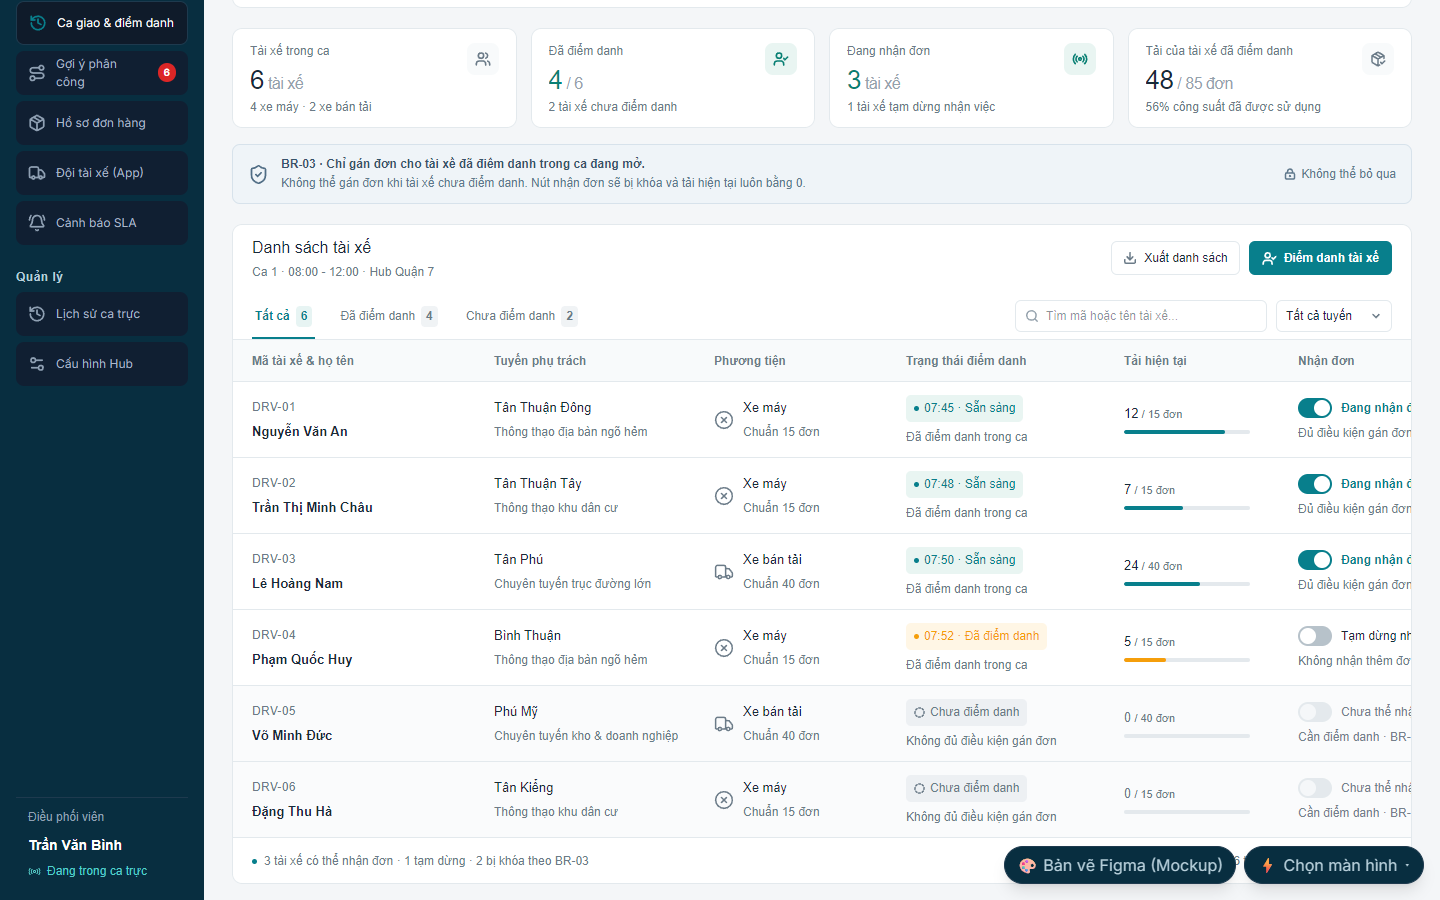
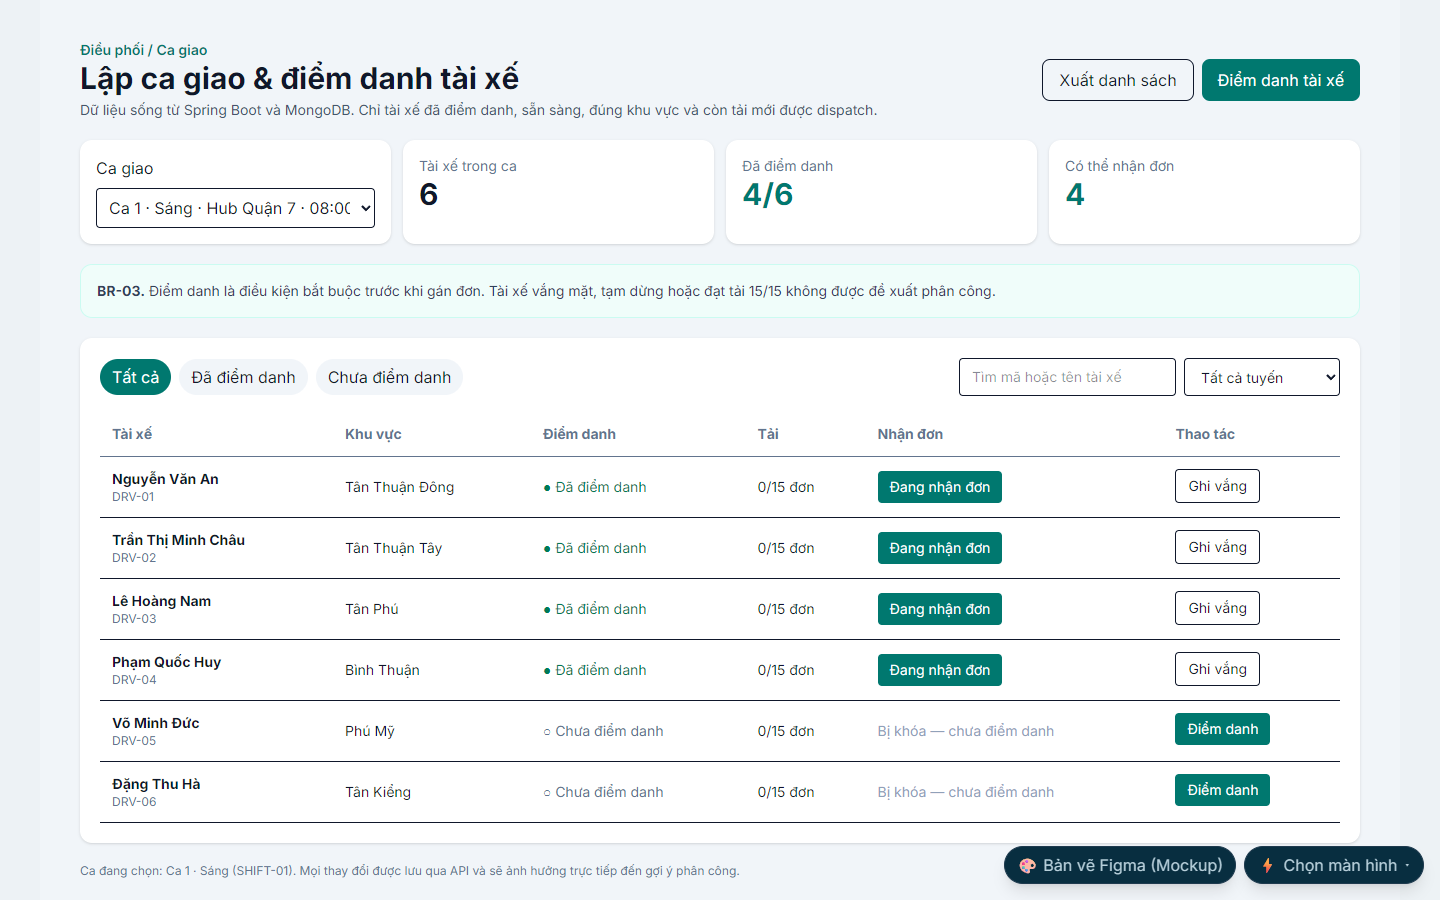
feat(server): add /api/shifts attendance and driver availability endpoints to local WebServer

diff --git a/src/vn/edu/tdtu/minervanexus/server/WebServer.java b/src/vn/edu/tdtu/minervanexus/server/WebServer.java
@@ -31,6 +31,7 @@ public class WebServer {
     private final IDriverShiftService driverShiftService;
     private final IDispatchEngine dispatchEngine;
     private final IAnalyticsService analyticsService;
+    private final Map<String, Map<String, Boolean>> shiftAttendance = new HashMap<>();
     private HttpServer server;
 
     public WebServer(int port,
@@ -43,6 +44,21 @@ public class WebServer {
         this.driverShiftService = driverShiftService;
         this.dispatchEngine = dispatchEngine;
         this.analyticsService = analyticsService;
+        initShiftAttendance();
+    }
+
+    private void initShiftAttendance() {
+        Map<String, Boolean> ca1 = new HashMap<>();
+        Map<String, Boolean> ca2 = new HashMap<>();
+        List<Driver> drivers = driverShiftService.getAllDrivers();
+        for (int i = 0; i < drivers.size(); i++) {
+            String id = drivers.get(i).getDriverId();
+            // First 4 drivers checked in for Ca 1; remaining unchecked so attendance picker has candidates
+            ca1.put(id, i < 4);
+            ca2.put(id, i < 2);
+        }
+        shiftAttendance.put("SHIFT-01", ca1);
+        shiftAttendance.put("SHIFT-02", ca2);
     }
 
     public void start() throws IOException {
@@ -54,6 +70,7 @@ public class WebServer {
         // API Endpoints
         server.createContext("/api/orders", new OrdersHandler());
         server.createContext("/api/drivers", new DriversHandler());
+        server.createContext("/api/shifts", new ShiftsHandler());
         server.createContext("/api/dispatch/suggestions", new DispatchSuggestionsHandler());
         server.createContext("/api/dispatch/approve", new DispatchApproveHandler());
         server.createContext("/api/dispatch/reject", new DispatchRejectHandler());
@@ -242,6 +259,23 @@ public class WebServer {
     private class DriversHandler implements HttpHandler {
         @Override
         public void handle(HttpExchange exchange) throws IOException {
+            String method = exchange.getRequestMethod();
+            String path = exchange.getRequestURI().getPath();
+
+            if ("PUT".equalsIgnoreCase(method) && path.startsWith("/api/drivers/")) {
+                String driverId = path.substring("/api/drivers/".length()).trim();
+                String body = new String(exchange.getRequestBody().readAllBytes(), StandardCharsets.UTF_8);
+                boolean active = body.contains("\"active\":true") || body.contains("\"active\": true");
+                Optional<Driver> opt = driverShiftService.getDriverById(driverId);
+                if (opt.isEmpty()) {
+                    sendJson(exchange, 404, "{\"error\":\"Không tìm thấy tài xế " + escape(driverId) + "\"}");
+                    return;
+                }
+                opt.get().setActive(active);
+                sendJson(exchange, 200, "{\"success\":true,\"driverId\":\"" + escape(driverId) + "\",\"active\":" + active + "}");
+                return;
+            }
+
             List<Driver> drivers = driverShiftService.getAllDrivers();
             StringBuilder sb = new StringBuilder("[");
             for (int i = 0; i < drivers.size(); i++) {
@@ -261,6 +295,108 @@ public class WebServer {
             }
             sb.append("]");
             sendJson(exchange, 200, sb.toString());
+        }
+    }
+
+    private class ShiftsHandler implements HttpHandler {
+        @Override
+        public void handle(HttpExchange exchange) throws IOException {
+            String method = exchange.getRequestMethod();
+            String path = exchange.getRequestURI().getPath();
+            String query = exchange.getRequestURI().getQuery();
+
+            // GET /api/shifts
+            if ("GET".equalsIgnoreCase(method) && ("/api/shifts".equals(path) || "/api/shifts/".equals(path))) {
+                String json = "["
+                        + "{\"id\":\"SHIFT-01\",\"name\":\"Ca 1 · Sáng\",\"area\":\"Hub Quận 7\",\"start\":\"2026-11-18T01:00:00Z\",\"end\":\"2026-11-18T05:00:00Z\"},"
+                        + "{\"id\":\"SHIFT-02\",\"name\":\"Ca 2 · Chiều\",\"area\":\"Hub Quận 7\",\"start\":\"2026-11-18T06:30:00Z\",\"end\":\"2026-11-18T10:30:00Z\"}"
+                        + "]";
+                sendJson(exchange, 200, json);
+                return;
+            }
+
+            // Parse shift id from /api/shifts/{id}/...
+            String rest = path.startsWith("/api/shifts/") ? path.substring("/api/shifts/".length()) : "";
+            String[] segs = rest.split("/");
+            String shiftId = segs.length > 0 && !segs[0].isEmpty() ? segs[0] : "SHIFT-01";
+            Map<String, Boolean> attMap = shiftAttendance.computeIfAbsent(shiftId, k -> new HashMap<>());
+
+            // GET /api/shifts/{id}/drivers
+            if ("GET".equalsIgnoreCase(method) && segs.length >= 2 && "drivers".equals(segs[1])) {
+                Map<String, String> qMap = parseFormOrJson(query == null ? "" : query);
+                String attFilter = qMap.getOrDefault("attendance", "all");
+                String areaFilter = qMap.getOrDefault("area", "");
+                String needle = qMap.getOrDefault("query", "").trim().toLowerCase(Locale.ROOT);
+
+                List<Driver> drivers = driverShiftService.getAllDrivers();
+                StringBuilder sb = new StringBuilder("[");
+                boolean first = true;
+                for (Driver d : drivers) {
+                    boolean checkedIn = Boolean.TRUE.equals(attMap.get(d.getDriverId()));
+                    if ("checked_in".equals(attFilter) && !checkedIn) continue;
+                    if ("not_checked_in".equals(attFilter) && checkedIn) continue;
+                    if (!areaFilter.isEmpty() && !areaFilter.equalsIgnoreCase(d.getAssignedAreaId())) continue;
+                    if (!needle.isEmpty()
+                            && !d.getDriverId().toLowerCase(Locale.ROOT).contains(needle)
+                            && !d.getName().toLowerCase(Locale.ROOT).contains(needle)) continue;
+
+                    if (!first) sb.append(",");
+                    first = false;
+                    sb.append("{")
+                            .append("\"driverId\":\"").append(escape(d.getDriverId())).append("\",")
+                            .append("\"name\":\"").append(escape(d.getName())).append("\",")
+                            .append("\"assignedAreaId\":\"").append(escape(d.getAssignedAreaId())).append("\",")
+                            .append("\"currentLoad\":").append(d.getCurrentLoad()).append(",")
+                            .append("\"capacityPerShift\":").append(Math.min(15, d.getCapacityPerShift())).append(",")
+                            .append("\"checkedIn\":").append(checkedIn).append(",")
+                            .append("\"availableForNewAssignments\":").append(d.isActive()).append(",")
+                            .append("\"services\":[\"STANDARD\",\"EXPRESS\"]")
+                            .append("}");
+                }
+                sb.append("]");
+                sendJson(exchange, 200, sb.toString());
+                return;
+            }
+
+            // POST /api/shifts/{id}/attendance
+            if ("POST".equalsIgnoreCase(method) && segs.length >= 2 && "attendance".equals(segs[1])) {
+                String body = new String(exchange.getRequestBody().readAllBytes(), StandardCharsets.UTF_8);
+                Map<String, String> params = parseFormOrJson(body);
+                String driverId = params.getOrDefault("driverId", "");
+                boolean present = body.contains("\"present\":true") || body.contains("\"present\": true");
+                if (driverId.isEmpty()) {
+                    sendJson(exchange, 400, "{\"error\":\"Thiếu driverId\"}");
+                    return;
+                }
+                attMap.put(driverId, present);
+                sendJson(exchange, 200, "{\"success\":true,\"shiftId\":\"" + escape(shiftId) + "\",\"driverId\":\"" + escape(driverId) + "\",\"present\":" + present + "}");
+                return;
+            }
+
+            // GET /api/shifts/{id}/attendance/export
+            if ("GET".equalsIgnoreCase(method) && segs.length >= 3 && "attendance".equals(segs[1]) && "export".equals(segs[2])) {
+                StringBuilder csv = new StringBuilder("driverId,name,area,checkedIn,availableForNewAssignments,currentLoad,capacityPerShift\n");
+                for (Driver d : driverShiftService.getAllDrivers()) {
+                    boolean checkedIn = Boolean.TRUE.equals(attMap.get(d.getDriverId()));
+                    csv.append("\"").append(escape(d.getDriverId())).append("\",")
+                            .append("\"").append(escape(d.getName())).append("\",")
+                            .append("\"").append(escape(d.getAssignedAreaId())).append("\",")
+                            .append(checkedIn).append(",")
+                            .append(d.isActive()).append(",")
+                            .append(d.getCurrentLoad()).append(",")
+                            .append(Math.min(15, d.getCapacityPerShift())).append("\n");
+                }
+                byte[] bytes = csv.toString().getBytes(StandardCharsets.UTF_8);
+                exchange.getResponseHeaders().set("Content-Type", "text/csv; charset=UTF-8");
+                exchange.getResponseHeaders().set("Content-Disposition", "attachment; filename=attendance-" + shiftId + ".csv");
+                exchange.sendResponseHeaders(200, bytes.length);
+                try (OutputStream os = exchange.getResponseBody()) {
+                    os.write(bytes);
+                }
+                return;
+            }
+
+            sendJson(exchange, 404, "{\"error\":\"Not Found: " + escape(path) + "\"}");
         }
     }
 
